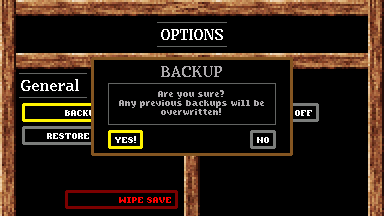
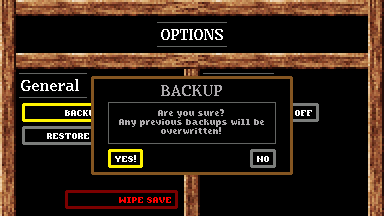
Adjusted y position of prompts in the options menu.

Changed region(s): [[0.2188, 0.25, 0.7812, 0.8333]]

diff --git a/src/draw.c b/src/draw.c
@@ -496,7 +496,7 @@ void disp_prompt(const struct Message msg, bool sel) {
 	int box_width = width + 50;
 	int box_height = height + (text_height(msg.header) * 14) + 25;
 	int box_x = (384 - box_width) / 2;
-	int box_y =  (213 - box_height) / 2;
+	int box_y = 79;
 
 	fill_area(box_x, box_y, box_width, box_height, 0x0000);
 	draw_rect(box_x - 2, box_y - 2,
@@ -505,9 +505,6 @@ void disp_prompt(const struct Message msg, bool sel) {
 	disp_string(box_x + ((box_width - text_width(msg.header)) / 2), box_y + 6, msg.header, 0xad55, ALIGN_CENTER);
 
 	draw_rect(box_x + 14, box_y + 23, box_width - 29, (text_height(msg.body) * 9) + 14, 0x632c, 0);
-
-	//draw_line(box_x + ((box_width - width) / 2), box_y + (text_height(msg.header) * 14) + 35,
-		//box_x + width + 13, box_y + (text_height(msg.header) * 14) + 35, 0x632c, 0);
 
 	disp_string_small(box_x + ((box_width - text_width_small(msg.body, false)) / 2),
 		box_y + (text_height(msg.header) * 14) + 17, msg.body, 0xad55, false, ALIGN_CENTER);
